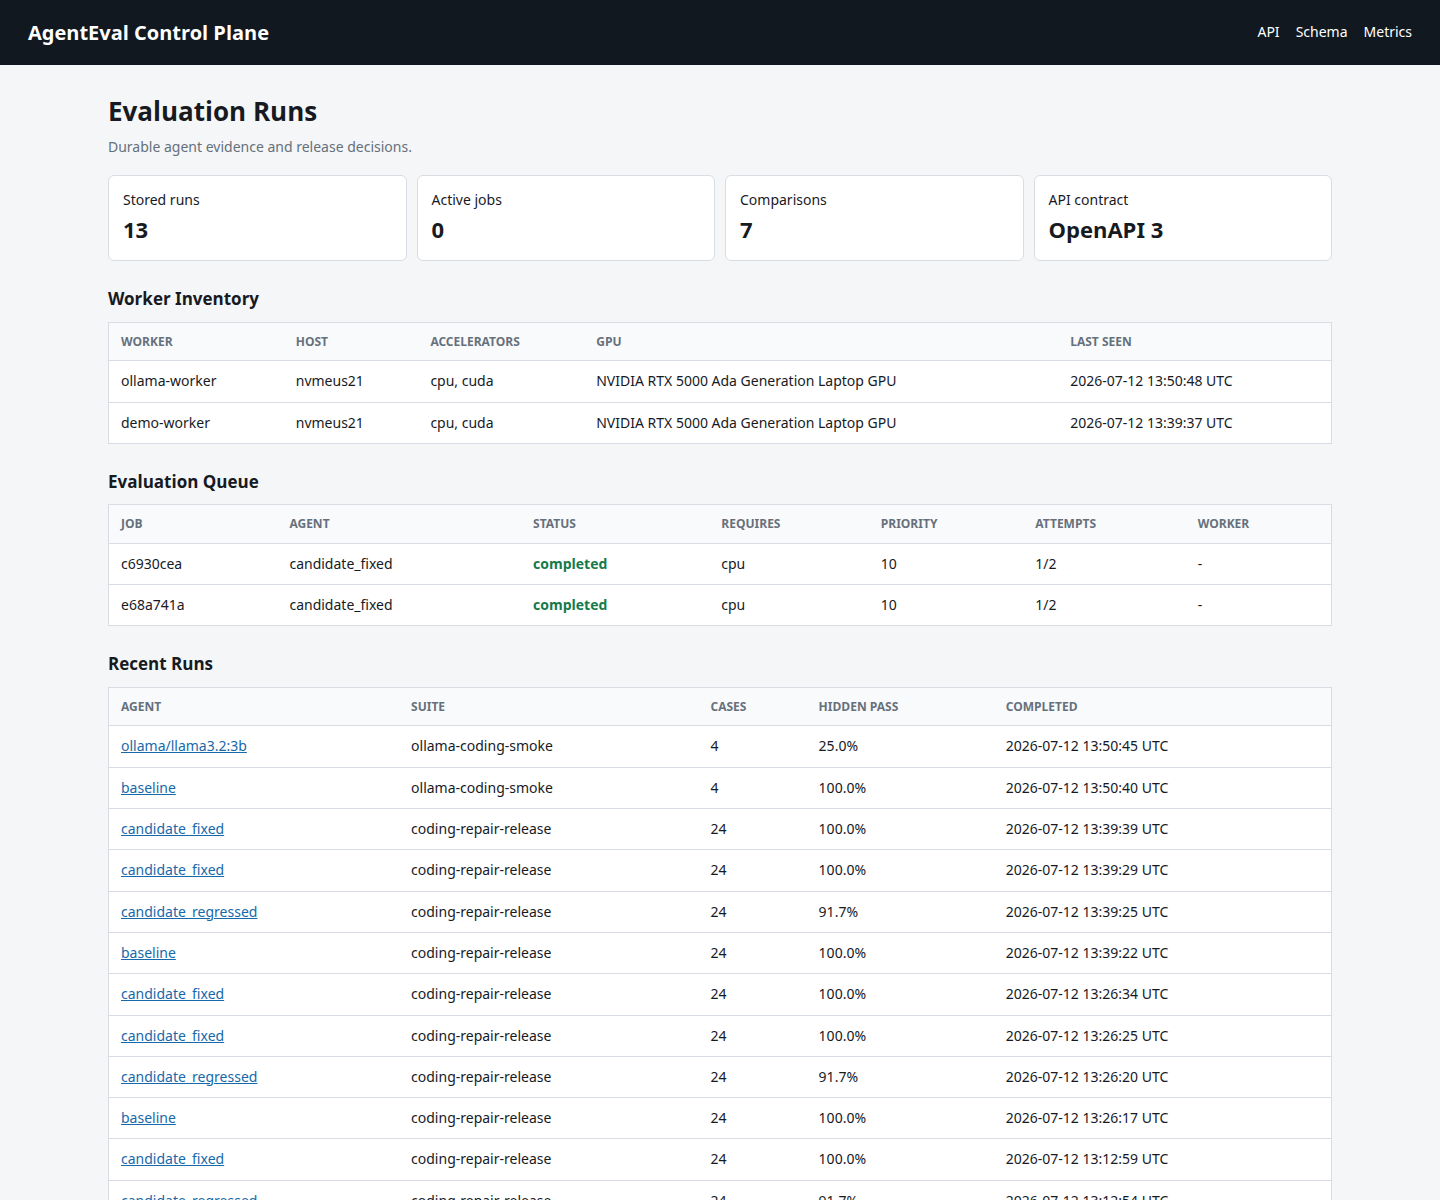
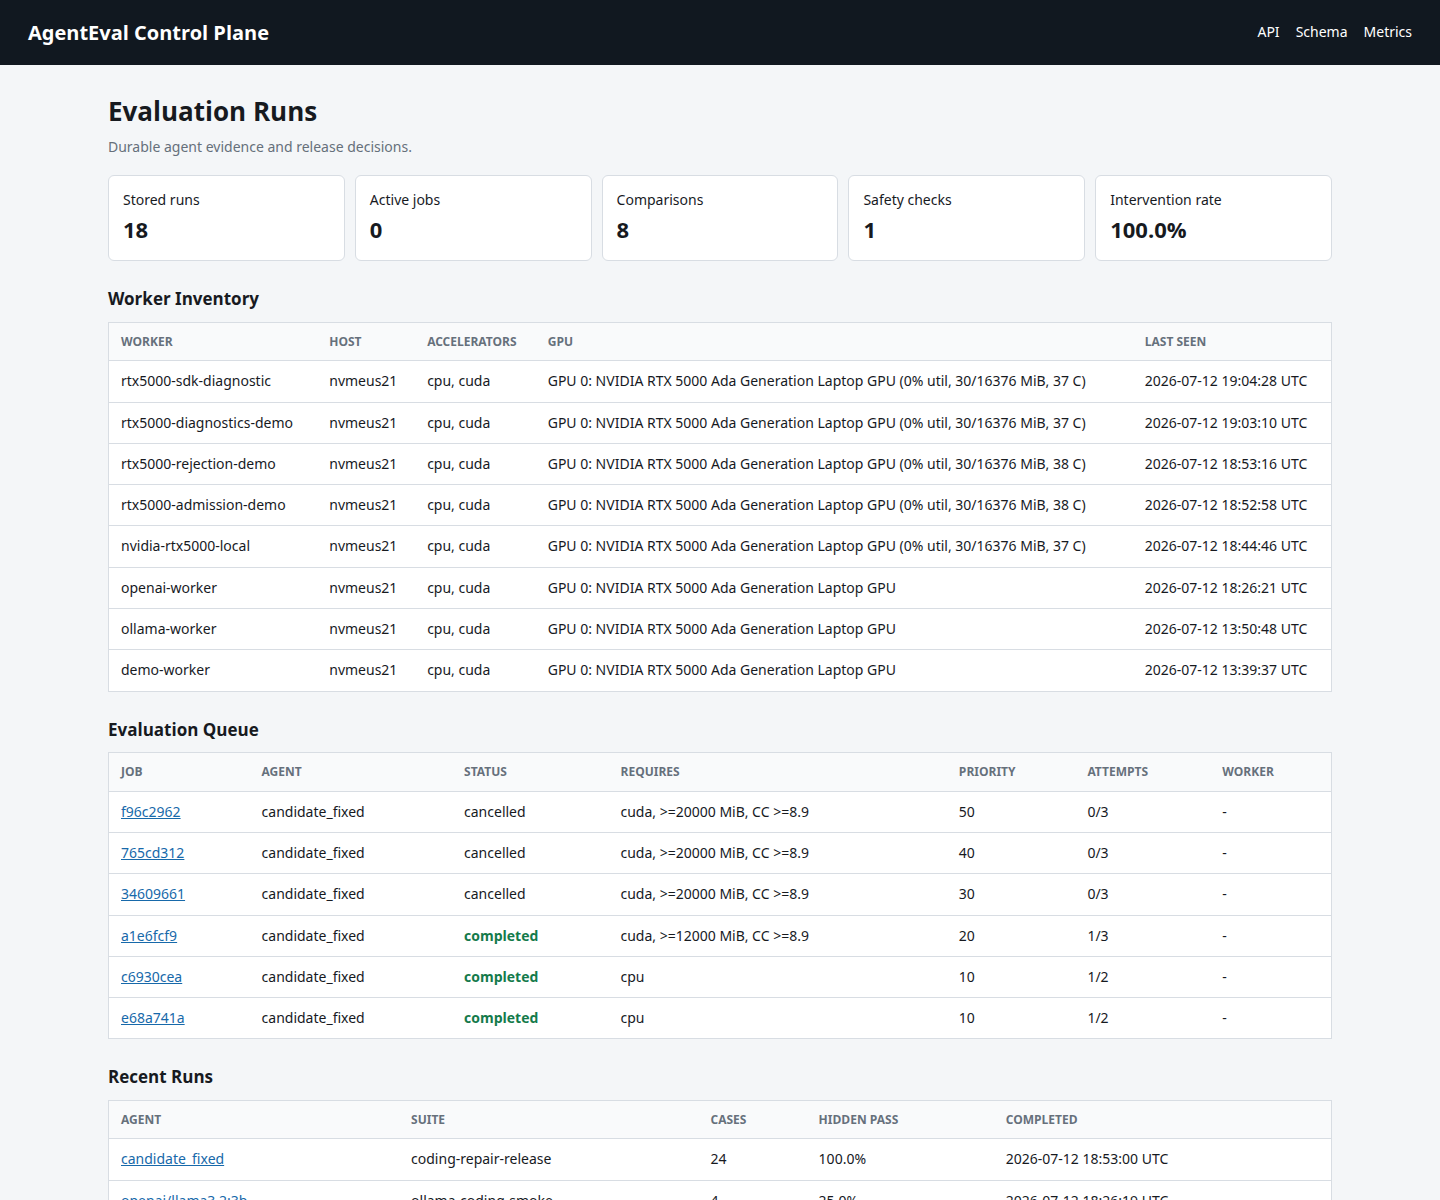
Add Guardrails evidence explorer

diff --git a/src/aecontrol/api.py b/src/aecontrol/api.py
@@ -430,7 +430,12 @@ def create_app(
     @application.get("/", response_class=HTMLResponse, include_in_schema=False)
     def dashboard() -> str:
         return _render_dashboard(
-            store.list_runs(), store.list_comparisons(), store.list_jobs(), store.list_workers()
+            store.list_runs(),
+            store.list_comparisons(),
+            store.list_jobs(),
+            store.list_workers(),
+            store.list_guardrail_evidence(10),
+            store.operational_snapshot(),
         )
 
     @application.get("/runs/{run_id}", response_class=HTMLResponse, include_in_schema=False)
@@ -448,6 +453,22 @@ def create_app(
         except ArtifactIntegrityError as error:
             raise HTTPException(status_code=409, detail=str(error)) from error
         return _render_comparison(artifact)
+
+    @application.get(
+        "/guardrails/evidence/{evidence_id}",
+        response_class=HTMLResponse,
+        include_in_schema=False,
+    )
+    def guardrail_evidence_detail(evidence_id: UUID) -> str:
+        try:
+            artifact = store.get_guardrail_evidence(evidence_id)
+        except KeyError as error:
+            raise HTTPException(
+                status_code=404, detail="guardrail evidence was not found"
+            ) from error
+        except ArtifactIntegrityError as error:
+            raise HTTPException(status_code=409, detail=str(error)) from error
+        return _render_guardrail_evidence(artifact)
 
     return application
 
@@ -503,7 +524,7 @@ h2{{font-size:17px;margin:26px 0 10px}}p{{margin:5px 0}}.muted{{color:var(--mute
 background:var(--paper);border:1px solid var(--line)}}th,td{{padding:10px 12px;border-bottom:1px solid var(--line);
 text-align:left;vertical-align:top}}th{{font-size:12px;text-transform:uppercase;color:var(--muted);background:#f9fafb}}
 tr:last-child td{{border-bottom:0}}a{{color:var(--blue)}}.PASS,.passed{{color:var(--green);font-weight:700}}
-.BLOCK,.failed,.error,.regressed{{color:var(--red);font-weight:700}}.WARN,.queued{{color:var(--amber);font-weight:700}}
+.BLOCK,.failed,.error,.regressed,.intervened{{color:var(--red);font-weight:700}}.WARN,.queued{{color:var(--amber);font-weight:700}}
 .completed{{color:var(--green);font-weight:700}}.running{{color:var(--blue);font-weight:700}}
 details{{background:#fff;border:1px solid var(--line);border-radius:6px;margin:8px 0;padding:10px 12px}}
 summary{{cursor:pointer;font-weight:650}}pre{{white-space:pre-wrap;overflow-wrap:anywhere;background:#111820;color:#e8edf2;
@@ -520,6 +541,8 @@ def _render_dashboard(
     comparisons: list[StoredComparisonSummary],
     jobs: list[EvaluationJob],
     workers: list[WorkerRecord],
+    guardrail_evidence: list[StoredGuardrailEvidenceSummary],
+    snapshot: OperationalSnapshot,
 ) -> str:
     run_rows = (
         "".join(
@@ -560,18 +583,36 @@ def _render_dashboard(
         )
         or "<tr><td colspan='5'>No workers have registered.</td></tr>"
     )
+    guardrail_rows = (
+        "".join(
+            f"<tr><td><a href='/guardrails/evidence/{row.evidence_id}'>{str(row.evidence_id)[:8]}</a></td>"
+            f"<td>{escape(row.config_id)}</td><td>{escape(row.model)}</td>"
+            f"<td class='{'passed' if row.passed_through else 'intervened'}'>"
+            f"{'Pass-through' if row.passed_through else 'Intervention'}</td>"
+            f"<td>{row.created_at:%Y-%m-%d %H:%M:%S} UTC</td></tr>"
+            for row in guardrail_evidence
+        )
+        or "<tr><td colspan='5'>No Guardrails evidence yet.</td></tr>"
+    )
     active_jobs = sum(row.status in {JobStatus.QUEUED, JobStatus.RUNNING} for row in jobs)
+    intervention_rate = (
+        snapshot.guardrail_interventions_total / snapshot.guardrail_evidence_total
+        if snapshot.guardrail_evidence_total
+        else 0
+    )
     return _page(
         "Runs",
         f"""<h1>Evaluation Runs</h1><p class="muted">Durable agent evidence and release decisions.</p>
 <div class="metrics"><div class="metric">Stored runs<b>{len(runs)}</b></div>
 <div class="metric">Active jobs<b>{active_jobs}</b></div>
 <div class="metric">Comparisons<b>{len(comparisons)}</b></div>
-<div class="metric">API contract<b>OpenAPI 3</b></div></div>
+<div class="metric">Safety checks<b>{snapshot.guardrail_evidence_total}</b></div>
+<div class="metric">Intervention rate<b>{intervention_rate:.1%}</b></div></div>
 <h2>Worker Inventory</h2><table><thead><tr><th>Worker</th><th>Host</th><th>Accelerators</th><th>GPU</th><th>Last Seen</th></tr></thead><tbody>{worker_rows}</tbody></table>
 <h2>Evaluation Queue</h2><table><thead><tr><th>Job</th><th>Agent</th><th>Status</th><th>Requires</th><th>Priority</th><th>Attempts</th><th>Worker</th></tr></thead><tbody>{job_rows}</tbody></table>
 <h2>Recent Runs</h2><table><thead><tr><th>Agent</th><th>Suite</th><th>Cases</th><th>Hidden pass</th><th>Completed</th></tr></thead><tbody>{run_rows}</tbody></table>
-<h2>Release Decisions</h2><table><thead><tr><th>ID</th><th>Gate</th><th>Pairs</th><th>Delta</th><th>Created</th></tr></thead><tbody>{comparison_rows}</tbody></table>""",
+<h2>Release Decisions</h2><table><thead><tr><th>ID</th><th>Gate</th><th>Pairs</th><th>Delta</th><th>Created</th></tr></thead><tbody>{comparison_rows}</tbody></table>
+<h2>Safety Evidence</h2><table><thead><tr><th>ID</th><th>Configuration</th><th>Model</th><th>Result</th><th>Created</th></tr></thead><tbody>{guardrail_rows}</tbody></table>""",
     )
 
 
@@ -662,6 +703,33 @@ def _render_comparison(artifact: StoredComparison) -> str:
 <div class="metric">Regressions<b>{len(comparison.regressed_cases)}</b></div></div>
 <h2>Gate Findings</h2><table><thead><tr><th>Scope</th><th>Metric</th><th>Outcome</th><th>Evidence</th></tr></thead><tbody>{findings}</tbody></table>
 <h2>Case Analysis</h2><table><thead><tr><th>Case</th><th>Slice</th><th>Class</th><th>Explanation</th></tr></thead><tbody>{cases}</tbody></table>""",
+    )
+
+
+def _render_guardrail_evidence(artifact: StoredGuardrailEvidence) -> str:
+    evidence = artifact.evidence
+    status_class = "passed" if evidence.passed_through else "intervened"
+    status_label = "Pass-through" if evidence.passed_through else "Intervention"
+    activated_rails = json.dumps(
+        evidence.activated_rails, indent=2, sort_keys=True, ensure_ascii=True, default=str
+    )
+    stats = json.dumps(evidence.stats, indent=2, sort_keys=True, ensure_ascii=True, default=str)
+    rail_count = (
+        len(evidence.activated_rails)
+        if isinstance(evidence.activated_rails, (list, dict))
+        else int(bool(evidence.activated_rails))
+    )
+    return _page(
+        f"Guardrail evidence {str(artifact.evidence_id)[:8]}",
+        f"""<h1>Guardrail Check <span class="{status_class}">{status_label}</span></h1>
+<p class="muted">Evidence {artifact.evidence_id} · {artifact.created_at:%Y-%m-%d %H:%M:%S} UTC</p>
+<div class="metrics"><div class="metric">Configuration<b>{escape(evidence.config_id)}</b></div>
+<div class="metric">Model<b>{escape(evidence.model)}</b></div>
+<div class="metric">Activated rails<b>{rail_count}</b></div></div>
+<h2>Submitted Text</h2><pre>{escape(evidence.submitted_text)}</pre>
+<h2>Guardrailed Response</h2><pre>{escape(evidence.response_text)}</pre>
+<h2>Activated Rails</h2><pre>{escape(activated_rails)}</pre>
+<h2>Server Statistics</h2><pre>{escape(stats)}</pre>""",
     )
 
 

diff --git a/tests/integration/test_postgres_api.py b/tests/integration/test_postgres_api.py
@@ -229,7 +229,7 @@ def test_guardrail_checks_become_tamper_evident_artifacts(
         return GuardrailEvidence(
             config_id="content_safety",
             model="meta/llama-3.1-8b-instruct",
-            submitted_text="candidate response",
+            submitted_text="<script>alert(1)</script>",
             response_text="I cannot help with that request.",
             passed_through=False,
             activated_rails=[{"name": "content safety check output"}],
@@ -266,6 +266,27 @@ def test_guardrail_checks_become_tamper_evident_artifacts(
     assert listed.json()[0]["config_id"] == "content_safety"
     assert api_client.get(f"/api/v1/guardrails/evidence/{evidence_id}").status_code == 200
 
+    operations = api_client.get("/api/v1/operations").json()
+    assert operations["guardrail_evidence_total"] == 1
+    assert operations["guardrail_interventions_total"] == 1
+    metrics = api_client.get("/metrics").text
+    assert "aecontrol_guardrail_evidence_total 1" in metrics
+    assert "aecontrol_guardrail_interventions_total 1" in metrics
+
+    dashboard = api_client.get("/")
+    assert dashboard.status_code == 200
+    assert "Safety Evidence" in dashboard.text
+    assert "Intervention rate<b>100.0%" in dashboard.text
+    assert "content_safety" in dashboard.text
+    detail = api_client.get(f"/guardrails/evidence/{evidence_id}")
+    assert detail.status_code == 200
+    assert "Guardrail Check" in detail.text
+    assert "Intervention" in detail.text
+    assert "&lt;script&gt;alert(1)&lt;/script&gt;" in detail.text
+    assert "<script>alert(1)</script>" not in detail.text
+    assert "I cannot help with that request." in detail.text
+    assert "content safety check output" in detail.text
+
     integrity = api_client.get("/api/v1/integrity")
     assert integrity.json() == {"checked": 1, "valid": 1, "failures": []}
 
@@ -286,7 +307,10 @@ def test_guardrail_checks_become_tamper_evident_artifacts(
     blocked = api_client.get(f"/api/v1/guardrails/evidence/{evidence_id}")
     assert blocked.status_code == 409
     assert "failed SHA-256 integrity verification" in blocked.json()["detail"]
+    browser_blocked = api_client.get(f"/guardrails/evidence/{evidence_id}")
+    assert browser_blocked.status_code == 409
     assert api_client.get(f"/api/v1/guardrails/evidence/{uuid4()}").status_code == 404
+    assert api_client.get(f"/guardrails/evidence/{uuid4()}").status_code == 404
 
 
 def test_guardrail_upstream_errors_are_actionable(

diff --git a/src/aecontrol/store.py b/src/aecontrol/store.py
@@ -446,6 +446,13 @@ class ArtifactStore:
             comparisons_total = connection.execute(
                 "SELECT count(*) AS value FROM comparisons"
             ).fetchone()
+            guardrail_row = connection.execute(
+                """
+                SELECT count(*) AS total,
+                       count(*) FILTER (WHERE NOT passed_through) AS interventions
+                FROM guardrail_evidence
+                """
+            ).fetchone()
             job_rows = connection.execute(
                 "SELECT status, count(*) AS value FROM evaluation_jobs GROUP BY status"
             ).fetchall()
@@ -476,6 +483,7 @@ class ArtifactStore:
         if (
             runs_total is None
             or comparisons_total is None
+            or guardrail_row is None
             or worker_row is None
             or queue_row is None
         ):
@@ -483,6 +491,8 @@ class ArtifactStore:
         return OperationalSnapshot(
             runs_total=int(str(runs_total["value"])),
             comparisons_total=int(str(comparisons_total["value"])),
+            guardrail_evidence_total=int(str(guardrail_row["total"])),
+            guardrail_interventions_total=int(str(guardrail_row["interventions"])),
             job_counts={str(row["status"]): int(str(row["value"])) for row in job_rows},
             gate_counts={str(row["outcome"]): int(str(row["value"])) for row in gate_rows},
             workers_registered=int(str(worker_row["registered"])),

diff --git a/src/aecontrol/observability.py b/src/aecontrol/observability.py
@@ -13,6 +13,12 @@ def render_prometheus(snapshot: OperationalSnapshot, workers: Iterable[WorkerRec
         "# HELP aecontrol_comparisons_total Persisted run comparisons.",
         "# TYPE aecontrol_comparisons_total gauge",
         f"aecontrol_comparisons_total {snapshot.comparisons_total}",
+        "# HELP aecontrol_guardrail_evidence_total Persisted NeMo Guardrails checks.",
+        "# TYPE aecontrol_guardrail_evidence_total gauge",
+        f"aecontrol_guardrail_evidence_total {snapshot.guardrail_evidence_total}",
+        "# HELP aecontrol_guardrail_interventions_total Guardrails checks that changed the submitted text.",
+        "# TYPE aecontrol_guardrail_interventions_total gauge",
+        f"aecontrol_guardrail_interventions_total {snapshot.guardrail_interventions_total}",
         "# HELP aecontrol_jobs Evaluation jobs by lifecycle state.",
         "# TYPE aecontrol_jobs gauge",
     ]

diff --git a/tests/unit/test_observability.py b/tests/unit/test_observability.py
@@ -12,6 +12,8 @@ def test_prometheus_rendering_includes_zero_value_dimensions() -> None:
     snapshot = OperationalSnapshot(
         runs_total=3,
         comparisons_total=2,
+        guardrail_evidence_total=4,
+        guardrail_interventions_total=1,
         job_counts={"completed": 1},
         gate_counts={"BLOCK": 1},
         workers_registered=2,
@@ -48,6 +50,8 @@ def test_prometheus_rendering_includes_zero_value_dimensions() -> None:
     payload = render_prometheus(snapshot, [worker])
 
     assert "aecontrol_runs_total 3" in payload
+    assert "aecontrol_guardrail_evidence_total 4" in payload
+    assert "aecontrol_guardrail_interventions_total 1" in payload
     assert 'aecontrol_jobs{status="queued"} 0' in payload
     assert 'aecontrol_jobs{status="completed"} 1' in payload
     assert 'aecontrol_gate_decisions{outcome="BLOCK"} 1' in payload

diff --git a/src/aecontrol/models.py b/src/aecontrol/models.py
@@ -379,6 +379,8 @@ class JobPlacementDiagnostic(BaseModel):
 class OperationalSnapshot(BaseModel):
     runs_total: int = Field(ge=0)
     comparisons_total: int = Field(ge=0)
+    guardrail_evidence_total: int = Field(ge=0)
+    guardrail_interventions_total: int = Field(ge=0)
     job_counts: dict[str, int]
     gate_counts: dict[str, int]
     workers_registered: int = Field(ge=0)

diff --git a/tests/unit/test_sdk.py b/tests/unit/test_sdk.py
@@ -129,6 +129,8 @@ def test_client_collections_operations_and_cancellation() -> None:
         {
             "runs_total": 0,
             "comparisons_total": 0,
+            "guardrail_evidence_total": 0,
+            "guardrail_interventions_total": 0,
             "job_counts": {"cancelled": 1},
             "gate_counts": {},
             "workers_registered": 0,

diff --git a/docs/nemo-guardrails.md b/docs/nemo-guardrails.md
@@ -32,6 +32,11 @@ curl http://127.0.0.1:8000/api/v1/guardrails/evidence
 curl http://127.0.0.1:8000/api/v1/guardrails/evidence/EVIDENCE_ID
 ```
 
+The browser dashboard includes total checks, intervention rate, and the ten most recent evidence
+records. `/guardrails/evidence/EVIDENCE_ID` renders the submitted text, guardrailed response,
+activated rails, and server statistics. Dynamic values are HTML-escaped, and the detail route uses the
+same digest verification as the REST API before returning content.
+
 When API authentication is enabled, configuration discovery and evidence retrieval require `read`;
 executing and storing a check requires `write`. The synchronous and asynchronous Python SDKs expose
 `guardrail_configs`, `check_guardrails`, `list_guardrail_evidence`, and
@@ -46,6 +51,10 @@ Schema v5 stores the complete typed envelope as JSONB alongside queryable config
 pass-through, and timestamp columns. The canonical payload digest is included in the full
 `/api/v1/integrity` audit. Detail reads return HTTP 409 without returning the untrusted payload when
 the digest does not match.
+
+`/metrics` exports `aecontrol_guardrail_evidence_total` and
+`aecontrol_guardrail_interventions_total`. These gauges deliberately omit configuration, model,
+prompt, and evidence labels to avoid sensitive or high-cardinality telemetry.
 
 `NEMO_GUARDRAILS_API_KEY` adds an optional bearer credential. The key is transport-only and does not
 appear in evidence. Protocol tests use an in-process server double, keeping CI deterministic and free

diff --git a/README.md b/README.md
@@ -201,7 +201,7 @@ distributions and GitHub artifact-provenance attestations.
 
 ```bash
 make package
-gh attestation verify dist/aecontrol-0.22.0-py3-none-any.whl \
+gh attestation verify dist/aecontrol-0.23.0-py3-none-any.whl \
   --repo JeremyDemers/Agent-Eval-Control-Plane
 ```
 
@@ -299,6 +299,12 @@ curl -X POST http://127.0.0.1:8000/api/v1/guardrails/check \
   -H 'Content-Type: application/json' \
   -d '{"model":"meta/llama-3.1-8b-instruct","config_id":"content_safety","input_text":"request","output_text":"agent response"}'
 ```
+
+The browser explorer summarizes safety-check volume and intervention rate, links recent evidence to
+escaped detail views, and refuses to render records that fail digest verification. Prometheus exports
+low-cardinality check and intervention totals without model names, prompts, or evidence IDs.
+
+![NeMo Guardrails intervention evidence with activated rails and server statistics](docs/assets/guardrail-evidence.png)
 
 See [`docs/nemo-guardrails.md`](docs/nemo-guardrails.md) for evidence semantics and log sensitivity.
 

diff --git a/docs/operations.md b/docs/operations.md
@@ -8,10 +8,12 @@ AgentEval exposes three local operational surfaces backed by PostgreSQL.
 
 The metrics include persisted run and comparison totals, jobs by lifecycle state, gate outcomes,
 registered and active workers, expired leases, oldest queued-job age, and average completed-job
-latency. Job and gate labels are fixed enums; run IDs and case IDs are deliberately excluded.
+latency. NeMo Guardrails check and intervention totals are exported without model, configuration,
+prompt, or evidence labels. Job and gate labels are fixed enums; run IDs and case IDs are deliberately
+excluded.
 Per-device GPU capacity, used/available memory, utilization, temperature, and power gauges use bounded
-worker, device index, UUID, and model labels from the registered
-inventory, plus a sample timestamp for staleness detection.
+worker, device index, UUID, and model labels from the registered inventory, plus a sample timestamp for
+staleness detection.
 
 Every HTTP response includes `X-Request-ID` and `Server-Timing`. A caller-supplied request ID is
 preserved when it contains at most 64 alphanumeric, dot, underscore, or hyphen characters; otherwise

diff --git a/PROGRESS.md b/PROGRESS.md
@@ -62,6 +62,9 @@
 - Queue-aware KEDA autoscaling for CPU and NVIDIA workers with failure fallbacks.
 - NVIDIA NIM runtime with secure hosted credentials, self-hosted management APIs, and worker placement.
 - NeMo Guardrails validation evidence with exact intervention detection and activated-rail diagnostics.
+- Durable NeMo Guardrails evidence with PostgreSQL integrity verification, REST, and sync/async SDKs.
+- Load-aware NVIDIA GPU admission using live free memory and utilization on one device.
+- Browser Guardrails evidence explorer with escaped diagnostics and safety metrics.
 
 ## Verification
 

diff --git a/docs/architecture.md b/docs/architecture.md
@@ -8,6 +8,8 @@ The evaluation engine loads a versioned JSONL dataset, invokes a runtime adapter
 deterministic evaluators, then emits immutable run artifacts. PostgreSQL stores the complete Pydantic
 contracts as JSONB while indexing identity, version, timestamps, pass rate, gate outcome, and aggregate
 delta for control-plane queries. A schema metadata table rejects unsupported storage versions.
+NeMo Guardrails checks use the same tamper-evident artifact path and have browser/API detail views that
+verify canonical payload digests before rendering evidence.
 
 Runtime adapters and evaluators use typed protocols so future integrations can be added without
 rewriting the core engine.